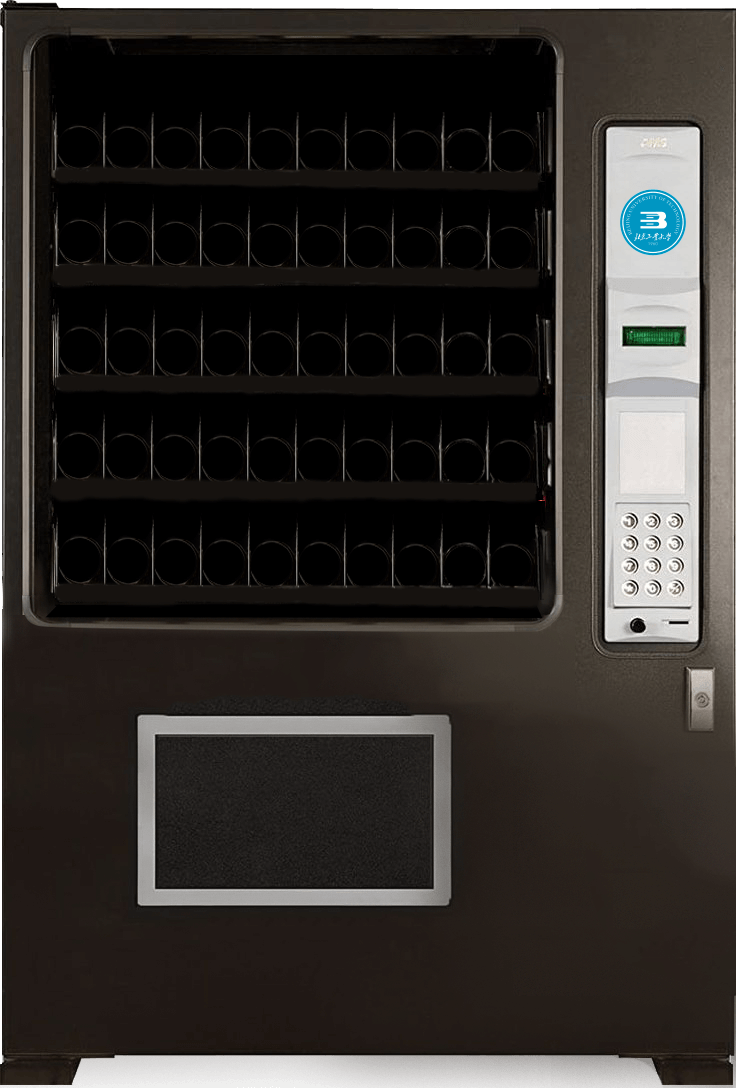
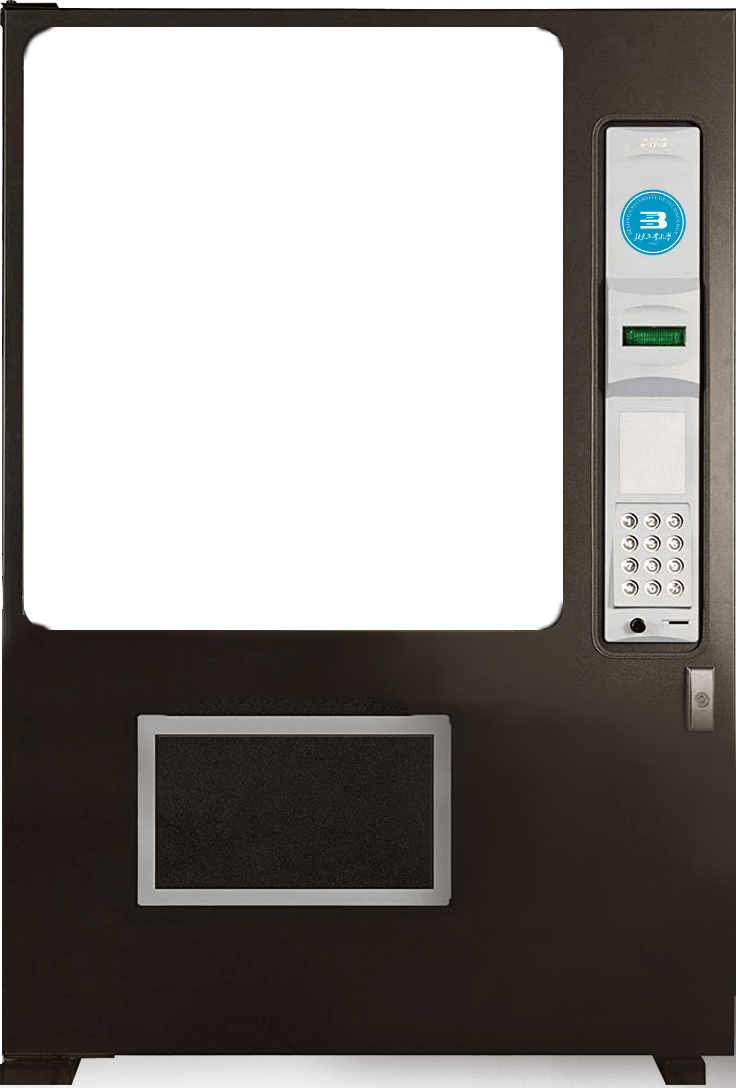
update 2023-11-14

diff --git a/web/src/App.vue b/web/src/App.vue
@@ -4,7 +4,7 @@ import { useWindowSize } from '@vueuse/core'
 import { useAxios } from '@vueuse/integrations/useAxios'
 
 import { GoodTypes } from './utils/goods.js'
-import { getImageUrl, getImageElement } from './utils/images.js'
+import { getImageUrl } from './utils/images.js'
 import money from './utils/money.js'
 
 const windowSize = useWindowSize()
@@ -97,34 +97,27 @@ const {
       :style="machineDimensions"
     >
       <img
-        class="vm-bg w-full h-full"
-        alt="the Vending Machine"
+        class="absolute top-0 left-0 w-full h-full pointer-events-none"
+        alt="售卖机背景"
         :src="getImageUrl('vending-machine')"
+        style="z-index: 5"
       />
-        <tippy
-          v-for="(typeInfo, i) in GoodTypes"
-          :key="i"
-        >
+      <img
+        class="absolute top-0 left-0 w-full h-full pointer-events-none"
+        alt="货架区背景"
+        :src="getImageUrl('vending-machine-rack')"
+        style="z-index: 0"
+      />
+      <template
+        v-for="(typeInfo, i) in GoodTypes"
+        :key="i"
+      >
+        <tippy>
           <div
-            class="vm-rack"
-            :style="{ bottom: (84.3 - 9.575 * i) + '%' }"
-          >
-            <img
-              v-for="j in goodCounts[i]"
-              class="vm-rack-good"
-              :alt="typeInfo.name"
-              :src="getImageUrl(typeInfo.id + '-small')"
-              :style="{ left: (j - 1) * 10 + 0.2 + '%' }"
-            />
-            <img
-              v-for="j in goodCounts[i]"
-              class="vm-rack-ring"
-              alt="货架"
-              :src="getImageUrl('ring')"
-              :style="{ left: (j - 1) * 10 + 0.2 + '%' }"
-            />
-          </div>
-
+            class="absolute rounded-lg hover:ring-2 ring-amber-500"
+            style="left: 7%; width: 66.5%; height: 9.2%; z-index: 6"
+            :style="{ bottom: (83 - 9.575 * i) + '%' }"
+          />
           <template #content>
             <div class="flex flex-col gap-1">
               <p
@@ -140,14 +133,44 @@ const {
             </div>
           </template>
         </tippy>
-      <div class="vm-port" v-tippy="'取货口'" />
-      <div class="vm-action" v-tippy="'操作区'" />
-      <div class="vm-lock" v-tippy="'补货'" />
+        <template v-for="j in goodCounts[i]">
+          <img
+            class="vm-rack-good absolute object-contain"
+            :alt="typeInfo.name"
+            :src="getImageUrl(typeInfo.id + '-small')"
+            style="width: 6.384%; height: 8%; z-index: 2"
+            :style="{ bottom: (84.3 - 9.575 * i) + '%', left: 7 + 66.5 * ((j - 1) * 0.1 + 0.002) + '%' }"
+          />
+          <img
+            class="vm-rack-ring absolute h-auto"
+            alt="货架"
+            :src="getImageUrl('ring')"
+            style="width: 6.384%; z-index: 3"
+            :style="{ bottom: (84.3 - 9.575 * i) + '%', left: 7 + 66.5 * ((j - 1) * 0.1 + 0.002) + '%' }"
+          />
+        </template>
+      </template>
+      <div
+        class="absolute rounded-sm hover:ring-4 ring-amber-500 cursor-pointer"
+        style="bottom: 16.7%; left: 18.7%; width: 42.5%; height: 17.5%; z-index: 6"
+        v-tippy="'取货口'"
+      />
+      <div
+        class="absolute rounded-sm hover:ring-4 ring-amber-500 cursor-pointer"
+        style="bottom: 40.1%; left: 81.2%; width: 14.4%; height: 48.6%; z-index: 6"
+        v-tippy="'操作区'"
+      />
+      <div
+        class="absolute rounded-sm hover:ring-4 ring-amber-500 cursor-pointer"
+        style="bottom: 32.8%; left: 93.2%; width: 4.2%; height: 6.2%; z-index: 6"
+        v-tippy="'补货'"
+      />
       <canvas
-        class="vm-canvas"
+        class="absolute top-0 left-0 w-full h-full pointer-events-none"
         width="736"
         height="1088"
         ref="canvasPriceTag"
+        style="z-index: 1"
       />
     </div>
     <div class="flex flex-col items-stretch gap-2" style="min-width: 128px; max-width: 256px">

diff --git a/web/src/assets/styles/app.css b/web/src/assets/styles/app.css
@@ -8,64 +8,14 @@
     -webkit-user-drag: none;
   }
 
-  .vm-bg {
-    @apply absolute left-0 top-0 w-full h-full;
-    z-index: -1;
+  .vm .vm-rack-good.vm-falling {
+    z-index: 4 !important;
+    transition: 0.6s cubic-bezier(1, 0, 1, 0.5) bottom, transform;
+    transform: scale(1.1) !important;
+    bottom: 20% !important;
   }
 
-  .vm-rack {
-    @apply absolute rounded-lg hover:ring-2 ring-amber-500;
-    left: 7%;
-    width: 66.5%;
-    height: 8%;
-  }
-
-  .vm-rack .vm-rack-good {
-    @apply absolute h-auto;
-    bottom: 0;
-    width: 9.6%;
-    height: 100%;
-    object-fit: contain;
-    z-index: 2;
-  }
-
-  .vm-rack .vm-rack-ring {
-    @apply absolute h-auto;
-    bottom: 0;
-    width: 9.6%;
-    z-index: 3;
-  }
-
-  .vm-port {
-    @apply absolute rounded-sm hover:ring-4 ring-amber-500 cursor-pointer;
-    bottom: 16.7%;
-    left: 18.7%;
-    width: 42.5%;
-    height: 17.5%;
-    z-index: 2;
-  }
-
-  .vm-action {
-    @apply absolute rounded-lg hover:ring-4 ring-amber-500 cursor-pointer;
-    bottom: 40.1%;
-    left: 81.2%;
-    width: 14.4%;
-    height: 48.6%;
-    z-index: 2;
-  }
-
-  .vm-lock {
-    @apply absolute rounded-sm hover:ring-4 ring-amber-500 cursor-pointer;
-    bottom: 32.8%;
-    left: 93.2%;
-    width: 4.2%;
-    height: 6.2%;
-    z-index: 2;
-  }
-
-  .vm-canvas {
-    @apply absolute top-0 left-0 w-full h-full;
-    z-index: 2;
-    pointer-events: none;
+  .vm .vm-rack-good.vm-falling+.vm-rack-ring {
+    display: none;
   }
 }

diff --git a/web/src/utils/images.js b/web/src/utils/images.js
@@ -1,4 +1,5 @@
 import imgVendingMachine from '../assets/images/vending-machine.png?inline'
+import imgVendingMachineRack from '../assets/images/vending-machine-rack.png?inline'
 import imgRing from '../assets/images/ring.png?inline'
 import imgCocaCola from '../assets/images/coca-cola.png?inline'
 import imgCocaColaSmall from '../assets/images/coca-cola-small.png?inline'
@@ -13,6 +14,7 @@ import imgWaterSmall from '../assets/images/water-small.png?inline'
 
 const imageUrls = {
   'vending-machine': imgVendingMachine,
+  'vending-machine-rack': imgVendingMachineRack,
   ring: imgRing,
   'coca-cola': imgCocaCola,
   'coca-cola-small': imgCocaColaSmall,
